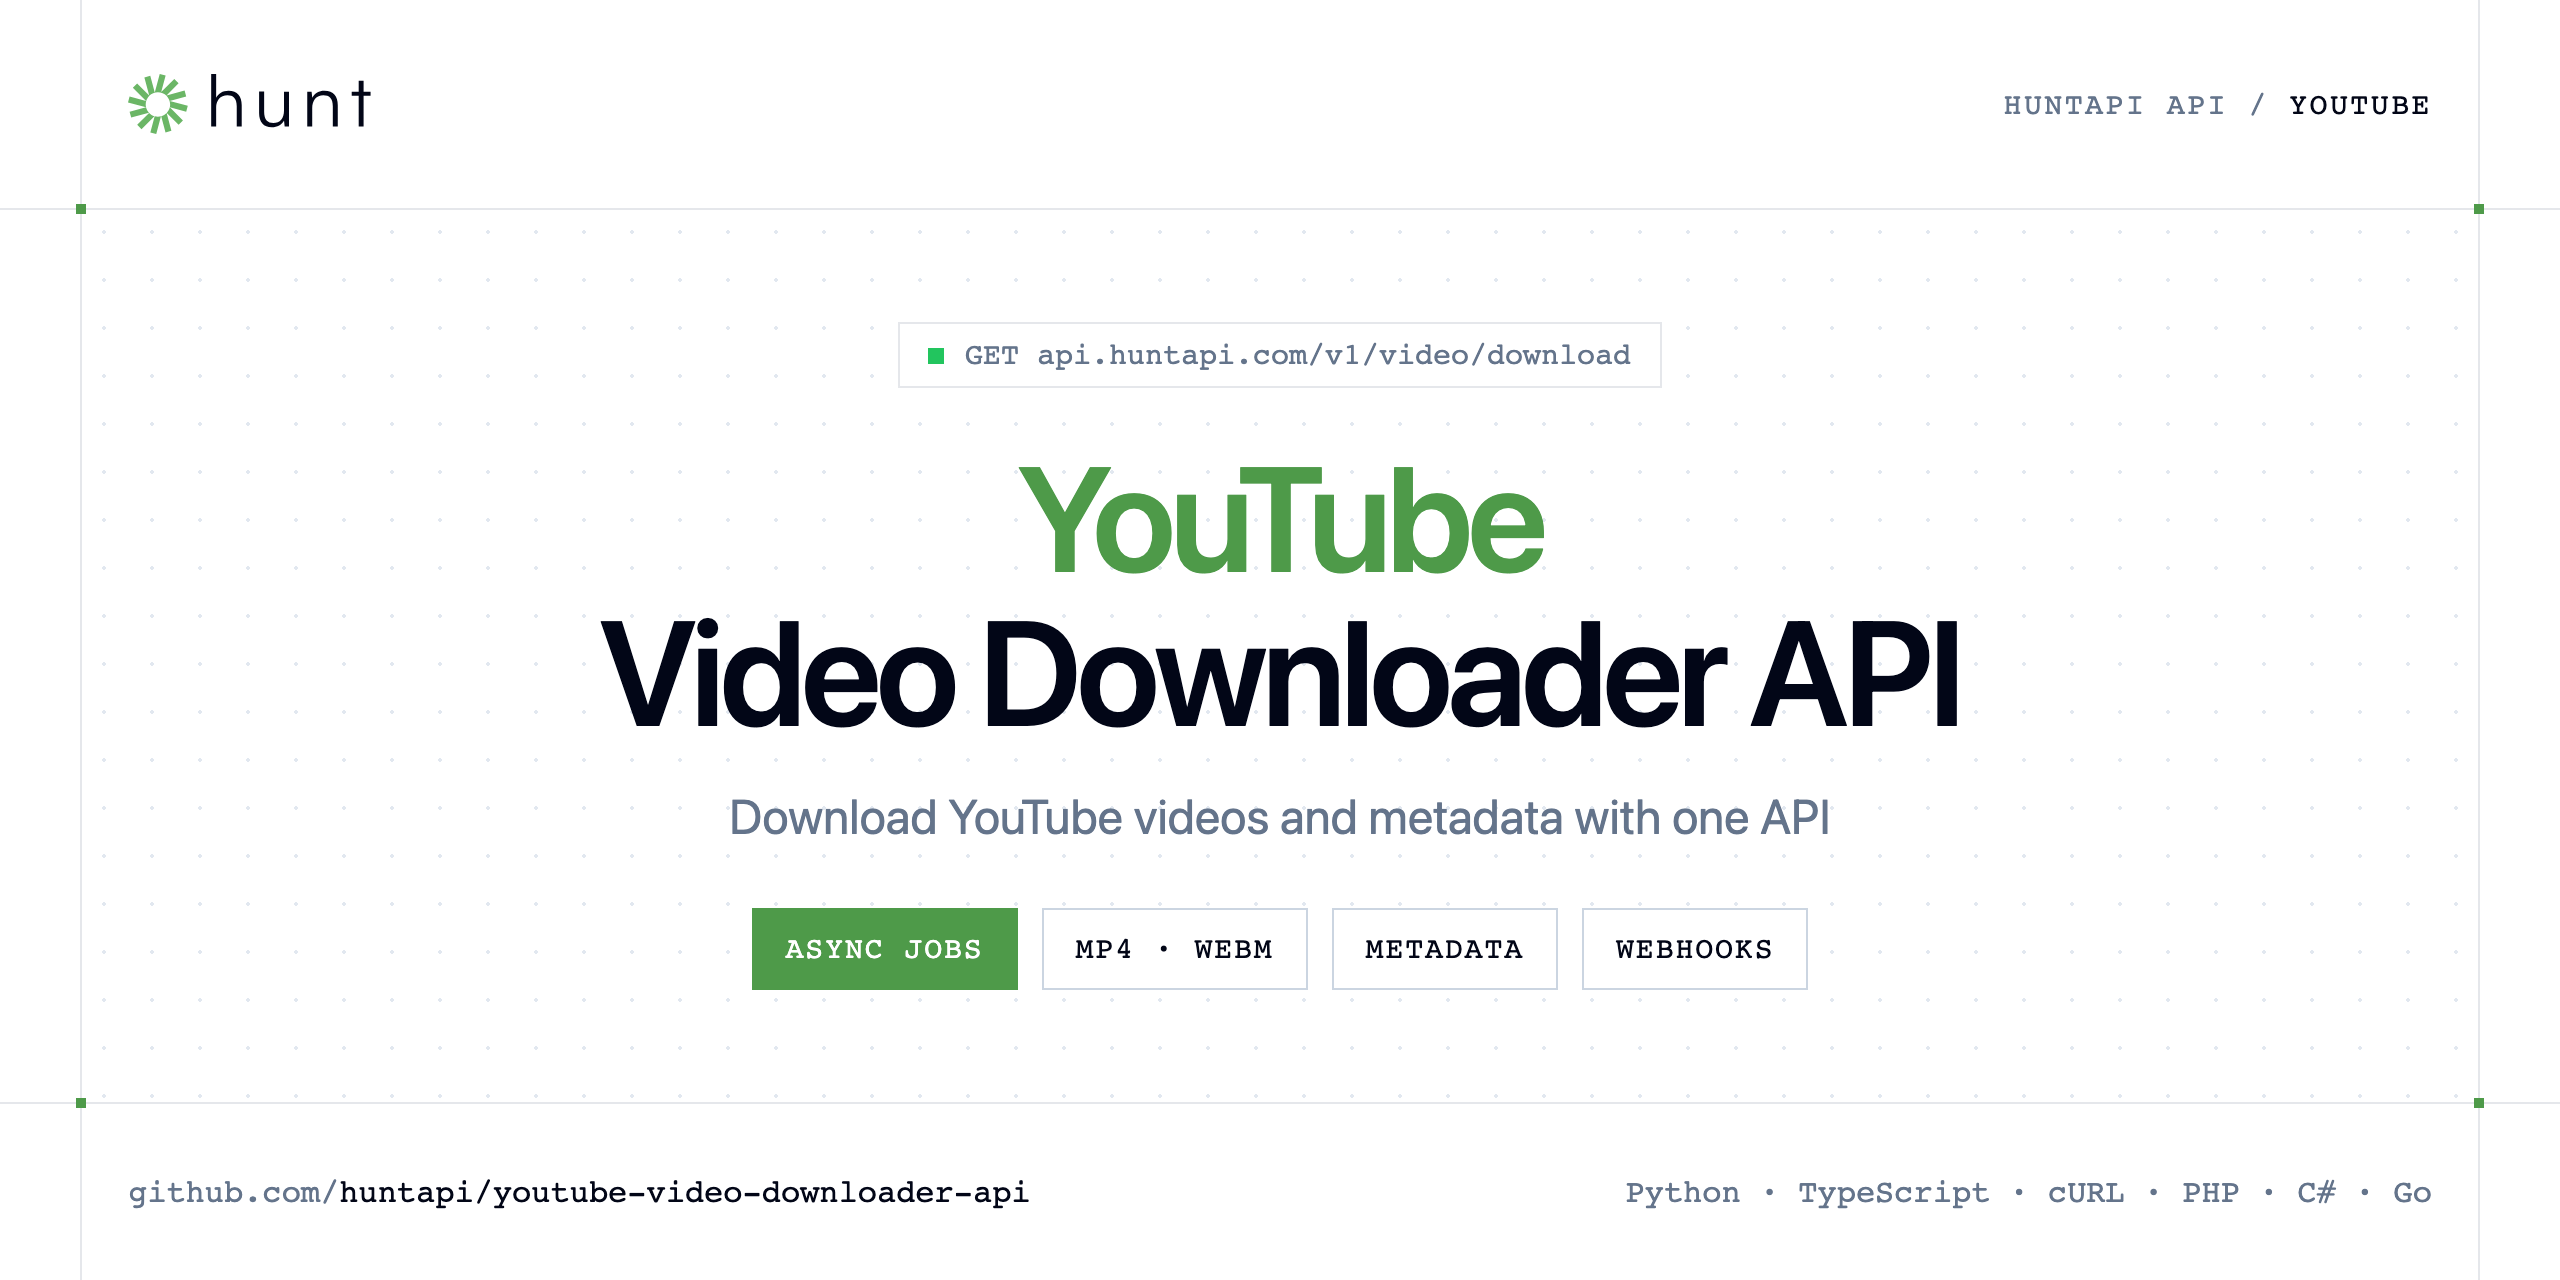
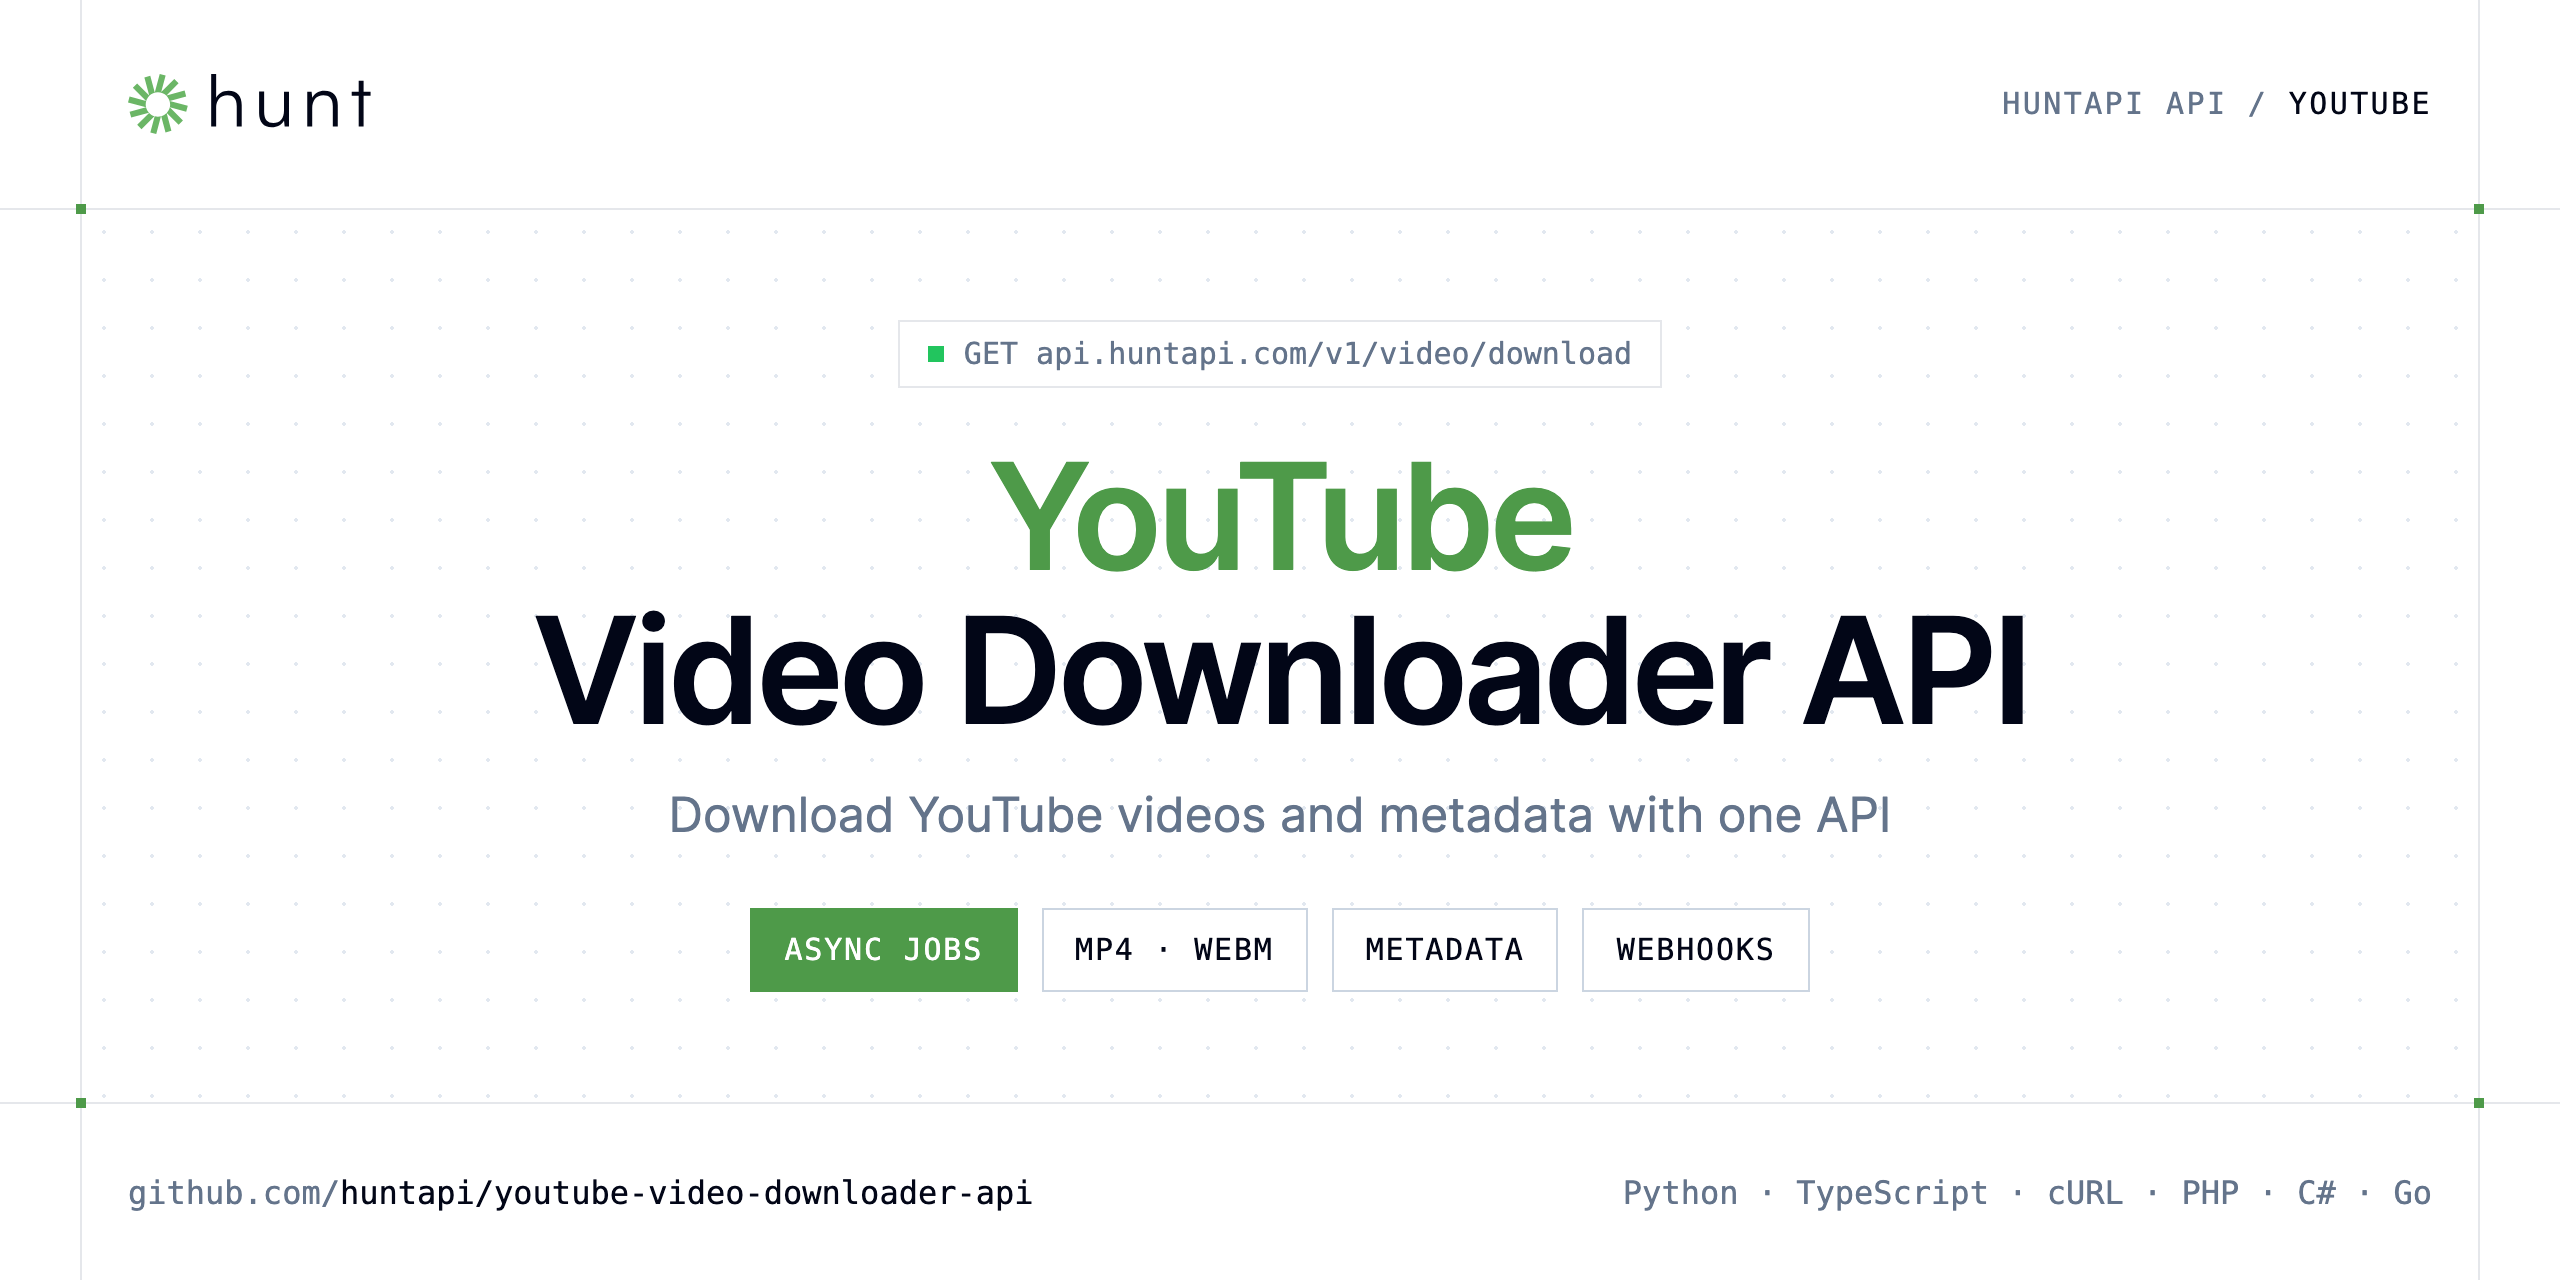
Update YouTube Video Downloader API examples and docs

diff --git a/examples/java/VideoDownloadExample.java b/examples/java/VideoDownloadExample.java
@@ -46,14 +46,18 @@ public class VideoDownloadExample {
         HttpResponse<byte[]> response = call("GET", "https://api.huntapi.com/v1/video/download" + (query.isEmpty() ? "" : "?" + query), null);
         String jobId = field(new String(response.body(), StandardCharsets.UTF_8), "job_id");
         Set<String> done = Set.of("CompletedJob", "Error", "NotFound", "BadRequest");
-        String job;
-        while (true) {
-            Thread.sleep(5000);
+        String job = "";
+        String status = "";
+        for (int i = 0; i < 4320 && !done.contains(status); i++) { // give up after 12 hours
+            Thread.sleep(10000);
             job = new String(call("GET", "https://api.huntapi.com/v1/jobs/" + jobId + "", null).body(), StandardCharsets.UTF_8);
-            String status = field(job, "status");
+            status = field(job, "status");
             System.out.println(status);
-            if (done.contains(status)) break;
         }
         System.out.println(job);
+        if (!status.equals("CompletedJob")) {
+            System.err.println("Job " + jobId + " not completed: " + status);
+            System.exit(1);
+        }
     }
 }

diff --git a/examples/csharp/VideoDownload.cs b/examples/csharp/VideoDownload.cs
@@ -19,13 +19,18 @@ if (!response.IsSuccessStatusCode)
 
 var jobId = JsonDocument.Parse(await response.Content.ReadAsStringAsync()).RootElement.GetProperty("job_id").GetString();
 var done = new HashSet<string> { "CompletedJob", "Error", "NotFound", "BadRequest" };
-JsonElement job;
-while (true)
+JsonElement job = default;
+var status = "";
+for (var i = 0; i < 4320 && !done.Contains(status); i++) // give up after 12 hours
 {
-    await Task.Delay(5000);
-    job = JsonDocument.Parse(await http.GetStringAsync($"https://api.huntapi.com/v1/jobs/{jobId}")).RootElement;
-    var status = job.GetProperty("status").GetString()!;
+    await Task.Delay(10000);
+    job = JsonDocument.Parse(await http.GetStringAsync($"https://api.huntapi.com/v1/jobs/{jobId}")).RootElement; // throws on HTTP errors
+    status = job.GetProperty("status").GetString()!;
     Console.WriteLine(status);
-    if (done.Contains(status)) break;
+}
+if (status != "CompletedJob")
+{
+    Console.Error.WriteLine($"Job {jobId} not completed: {status}");
+    Environment.Exit(1);
 }
 Console.WriteLine(job.GetProperty("result"));

diff --git a/examples/php/video_download.php b/examples/php/video_download.php
@@ -34,10 +34,16 @@ $query = http_build_query([
 $response = call('GET', 'https://api.huntapi.com/v1/video/download' . ($query ? '?' . $query : ''));
 
 $jobId = json_decode($response, true)['job_id'];
-do {
-    sleep(5);
+$job = null;
+for ($i = 0; $i < 4320; $i++) { // give up after 12 hours
+    sleep(10);
     $job = json_decode(call('GET', 'https://api.huntapi.com/v1/jobs/' . $jobId . ''), true);
     echo $job['status'], ' ', $job['progress'] ?? '', PHP_EOL;
-} while (!in_array($job['status'], ['CompletedJob', 'Error', 'NotFound', 'BadRequest'], true));
+    if (in_array($job['status'], ['CompletedJob', 'Error', 'NotFound', 'BadRequest'], true)) break;
+}
 
 echo json_encode($job['result'] ?? null, JSON_PRETTY_PRINT | JSON_UNESCAPED_SLASHES), PHP_EOL;
+if (($job['status'] ?? '') !== 'CompletedJob') {
+    fwrite(STDERR, "Job $jobId not completed: " . ($job['status'] ?? 'unknown') . "\n");
+    exit(1);
+}

diff --git a/examples/go/video_download.go b/examples/go/video_download.go
@@ -55,10 +55,11 @@ func main() {
 	json.Unmarshal(data, &submitted)
 	jobID := fmt.Sprint(submitted["job_id"])
 	var job map[string]any
-	for {
-		time.Sleep(5 * time.Second)
+	status := ""
+	for i := 0; i < 4320; i++ { // give up after 12 hours
+		time.Sleep(10 * time.Second)
 		json.Unmarshal(call("GET", "https://api.huntapi.com/v1/jobs/"+jobID+"", nil), &job)
-		status := fmt.Sprint(job["status"])
+		status = fmt.Sprint(job["status"])
 		fmt.Println(status, job["progress"])
 		if status == "CompletedJob" || status == "Error" || status == "NotFound" || status == "BadRequest" {
 			break
@@ -66,4 +67,8 @@ func main() {
 	}
 	out, _ := json.MarshalIndent(job["result"], "", "  ")
 	fmt.Println(string(out))
+	if status != "CompletedJob" {
+		fmt.Fprintf(os.Stderr, "job %s not completed: %s\n", jobID, status)
+		os.Exit(1)
+	}
 }

diff --git a/examples/ruby/video_download.rb b/examples/ruby/video_download.rb
@@ -23,12 +23,13 @@ uri.query = URI.encode_www_form('query' => 'https://www.youtube.com/watch?v=Z5YP
 response = call("GET", uri.to_s)
 
 job_id = JSON.parse(response).fetch("job_id")
-job = nil
-loop do
-  sleep 5
+job = {}
+4320.times do # give up after 12 hours
+  sleep 10
   job = JSON.parse(call("GET", "https://api.huntapi.com/v1/jobs/#{job_id}"))
   puts "#{job['status']} #{job['progress']}"
   break if ["CompletedJob", "Error", "NotFound", "BadRequest"].include?(job["status"])
 end
 
 puts JSON.pretty_generate(job["result"] || {})
+abort "Job #{job_id} not completed: #{job['status']}" unless job["status"] == "CompletedJob"

diff --git a/README.md b/README.md
@@ -85,14 +85,20 @@ response.raise_for_status()
 
 job_id = response.json()["job_id"]
 
-# Poll the job until it reaches a final status
-while True:
-    job = requests.get(f"https://api.huntapi.com/v1/jobs/{job_id}", headers=HEADERS, timeout=60).json()
+# Poll the job until it reaches a final status (give up after 12 hours)
+for _ in range(4320):
+    time.sleep(10)
+    poll = requests.get(f"https://api.huntapi.com/v1/jobs/{job_id}", headers=HEADERS, timeout=120)
+    poll.raise_for_status()
+    job = poll.json()
     print(job["status"], job.get("progress"))
     if job["status"] in ("CompletedJob", "Error", "NotFound", "BadRequest"):
         break
-    time.sleep(5)
+else:
+    raise SystemExit(f"Job {job_id} still running after 12 hours")
 
+if job["status"] != "CompletedJob":
+    raise SystemExit("Job failed: " + job["status"])
 print(job.get("result"))
 ```
 
@@ -114,12 +120,16 @@ const { job_id: jobId } = (await response.json()) as { job_id: string };
 
 type Job = { status: string; progress?: number; result?: unknown };
 const done = new Set(["CompletedJob", "Error", "NotFound", "BadRequest"]);
-let job: Job;
-do {
-  await new Promise((r) => setTimeout(r, 5000));
-  job = (await (await fetch(`https://api.huntapi.com/v1/jobs/${jobId}`, { headers })).json()) as Job;
+let job: Job | undefined;
+for (let i = 0; i < 4320; i++) { // give up after 12 hours
+  await new Promise((r) => setTimeout(r, 10000));
+  const poll = await fetch(`https://api.huntapi.com/v1/jobs/${jobId}`, { headers });
+  if (!poll.ok) throw new Error(`HTTP ${poll.status}: ${await poll.text()}`);
+  job = (await poll.json()) as Job;
   console.log(job.status, job.progress);
-} while (!done.has(job.status));
+  if (done.has(job.status)) break;
+}
+if (job?.status !== "CompletedJob") throw new Error(`Job ${jobId} not completed: ${job?.status}`);
 
 console.log(job.result);
 ```
@@ -129,6 +139,8 @@ console.log(job.result);
 1. The request returns `{"job_id": "…"}` immediately.
 2. Poll `GET https://api.huntapi.com/v1/jobs/{id}` every few seconds — `status` goes from `Queued` to `Running` (with `progress` 0–100) to a final value: `CompletedJob`, `Error`, `NotFound`, `BadRequest`.
 3. When `status` is `CompletedJob`, read `result` (download link and metadata).
+
+Jobs on very long videos can take up to 12 hours before they time out: the examples poll every 10 seconds and give up after 12 hours.
 
 Prefer push over polling? Pass `webhook_url` and the result is POSTed to your endpoint.
 
